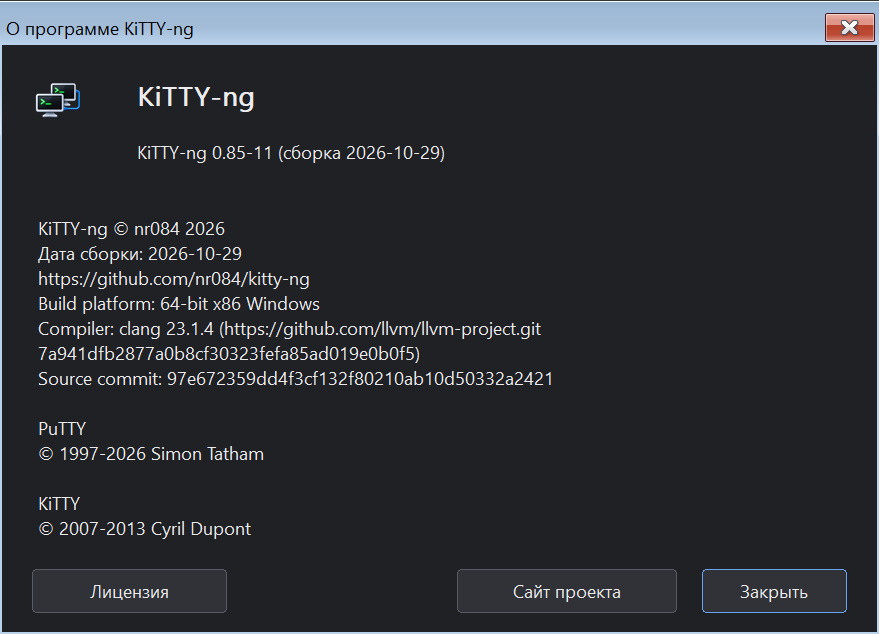
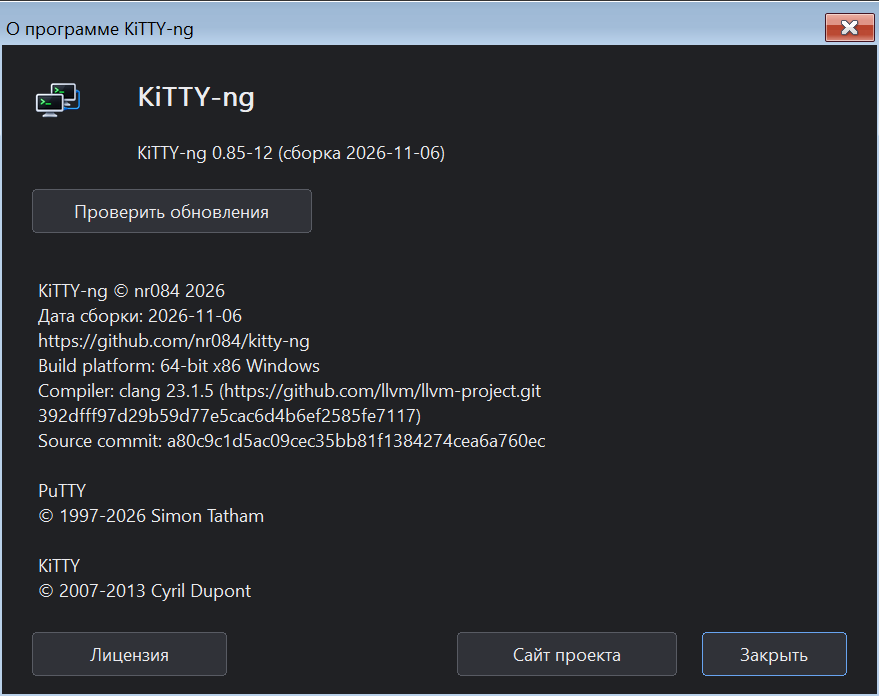
Theme settings controls before painting a replacement panel

diff --git a/windows/kittyng-theme.c b/windows/kittyng-theme.c
@@ -7,8 +7,11 @@
 #include <dwmapi.h>
 
 #define THEME_REFRESH (WM_APP + 162)
+#define THEME_CHILDREN (WM_APP + 163)
 #define THEME_SUBCLASS 0x4b475448
 static const wchar_t theme_attached[] = L"KiTTY-ng Theme Attached";
+static const wchar_t theme_control[] = L"KiTTY-ng Themed Control";
+static const wchar_t theme_children_pending[] = L"KiTTY-ng Theme Children Pending";
 static HBRUSH dark_surface, dark_field;
 static int preference = -1;
 static bool dark;
@@ -182,8 +185,10 @@ static bool draw_menu(HWND hwnd, UINT msg, LPARAM lp)
 }
 
 static LRESULT CALLBACK themed_proc(HWND, UINT, WPARAM, LPARAM, UINT_PTR, DWORD_PTR);
-static BOOL CALLBACK theme_child(HWND child, LPARAM unused)
+static BOOL CALLBACK theme_child(HWND child, LPARAM only_new)
 {
+    if (only_new && GetPropW(child, theme_control)) return TRUE;
+    SetPropW(child, theme_control, (HANDLE)1);
     wchar_t cls[64]; GetClassNameW(child, cls, lenof(cls));
     /* Native themed scrollbars/edit fields; buttons are drawn below in dark mode. */
     SetWindowTheme(child, dark ? L"DarkMode_Explorer" : NULL, NULL);
@@ -200,6 +205,12 @@ static BOOL CALLBACK theme_child(HWND child, LPARAM unused)
     InvalidateRect(child, NULL, TRUE);
     return TRUE;
 }
+void kr_theme_sync_children(HWND hwnd)
+{
+    if (GetPropW(hwnd, theme_attached))
+        EnumChildWindows(hwnd, theme_child, 1);
+}
+
 static void apply_theme(HWND hwnd)
 {
     resolve_theme();
@@ -376,13 +387,23 @@ static LRESULT CALLBACK themed_proc(HWND hwnd, UINT msg, WPARAM wp, LPARAM lp,
                                     UINT_PTR id, DWORD_PTR data)
 {
     if (theme_changed && msg == theme_changed) { preference = -1; apply_theme(hwnd); return 0; }
-    if (msg == WM_NCDESTROY) { RemovePropW(hwnd, theme_attached); restore_menu(hwnd,NULL); RemoveWindowSubclass(hwnd, themed_proc, id); return DefSubclassProc(hwnd,msg,wp,lp); }
+    if (msg == WM_NCDESTROY) { RemovePropW(hwnd, theme_attached); RemovePropW(hwnd, theme_control); RemovePropW(hwnd, theme_children_pending); restore_menu(hwnd,NULL); RemoveWindowSubclass(hwnd, themed_proc, id); return DefSubclassProc(hwnd,msg,wp,lp); }
     if (msg == THEME_REFRESH) { apply_theme(hwnd); return 0; }
     if (msg == WM_SETTINGCHANGE || msg == WM_THEMECHANGED) {
         /* Child SetWindowTheme emits WM_THEMECHANGED: only refresh top-levels. */
         if (!(GetWindowLongPtrW(hwnd,GWL_STYLE) & WS_CHILD)) PostMessageW(hwnd,THEME_REFRESH,0,0);
     }
-    if (msg == WM_PARENTNOTIFY && LOWORD(wp) == WM_CREATE) PostMessageW(hwnd,THEME_REFRESH,0,0);
+    if (msg == THEME_CHILDREN) {
+        RemovePropW(hwnd, theme_children_pending);
+        kr_theme_sync_children(hwnd);
+        return 0;
+    }
+    if (msg == WM_PARENTNOTIFY && LOWORD(wp) == WM_CREATE &&
+        GetPropW(hwnd, theme_attached) && !GetPropW(hwnd, theme_children_pending)) {
+        if (SetPropW(hwnd, theme_children_pending, (HANDLE)1) &&
+            !PostMessageW(hwnd, THEME_CHILDREN, 0, 0))
+            RemovePropW(hwnd, theme_children_pending);
+    }
     if (msg == WM_INITMENUPOPUP) {
         LRESULT result=DefSubclassProc(hwnd,msg,wp,lp);
         theme_menu(hwnd,(HMENU)wp);return result;

diff --git a/windows/dialog.c b/windows/dialog.c
@@ -14,6 +14,7 @@
 #include "kittyng.h"
 #include "kittyng-logui.h"
 #include "kittyng-update.h"
+#include "kittyng-theme.h"
 #define dupprintf kr_printf
 #undef SetWindowText
 #define SetWindowText kr_set_text
@@ -809,11 +810,19 @@ static INT_PTR GenericMainDlgProc(HWND hwnd, UINT msg, WPARAM wParam,
                                 117, 3, 13, pds->current_path);
 
             dlg_refresh(NULL, pds->dp);    /* set up control values */
+            kr_theme_sync_children(hwnd);
 
-            SendMessage (hwnd, WM_SETREDRAW, true, 0);
-            InvalidateRect (hwnd, NULL, true);
+            HWND tree = ((LPNMHDR) lParam)->hwndFrom;
+            RECT panel, tree_bounds;
+            GetClientRect(hwnd, &panel);
+            GetWindowRect(tree, &tree_bounds);
+            MapWindowPoints(NULL, hwnd, (POINT *)&tree_bounds, 2);
+            panel.left = tree_bounds.right;
 
-            SetFocus(((LPNMHDR) lParam)->hwndFrom);     /* ensure focus stays */
+            SendMessage(hwnd, WM_SETREDRAW, true, 0);
+            SetFocus(tree);
+            RedrawWindow(hwnd, &panel, NULL,
+                         RDW_INVALIDATE | RDW_ERASE | RDW_ALLCHILDREN);
         }
         return 0;
 

diff --git a/test/windows_folder_name.py b/test/windows_folder_name.py
@@ -40,9 +40,15 @@ with tempfile.TemporaryDirectory(prefix='kitty-ng-folder-ui-') as directory:
  try:
   dialog=wait(lambda:next((h for h in windows() if pid(h)==p.pid and cls(h)=='PuTTYConfigBox'),None))
   wait(lambda:u.IsWindowVisible(dialog))
-  query_buffer=ctypes.create_unicode_buffer('AUTOBUD');query=ctypes.addressof(query_buffer)
-  combo=wait(lambda:next((h for h in children(dialog) if cls(h).lower()=='combobox' and u.SendMessageW(h,0x14C,-1,query)>=0),None))
-  index=u.SendMessageW(combo,0x14C,-1,query);assert index>=0
+  def folder_entry():
+   for combo in children(dialog):
+    if cls(combo).lower()!='combobox':continue
+    count=ctypes.c_int32(u.SendMessageW(combo,0x146,0,0)).value
+    for index in range(count):
+     buffer=ctypes.create_unicode_buffer(512)
+     u.SendMessageW(combo,0x148,index,ctypes.addressof(buffer))
+     if buffer.value=='AUTOBUD':return combo,index
+  combo,index=wait(folder_entry)
   u.SendMessageW(combo,0x14E,index,0);u.SendMessageW(dialog,0x111,u.GetDlgCtrlID(combo)|(1<<16),combo)
   def selected_profile_row():
    for listing in children(dialog):

diff --git a/windows/kittyng-theme.h b/windows/kittyng-theme.h
@@ -7,6 +7,7 @@ bool kr_theme_dark(void);
 void kr_theme_start(void);
 int kr_theme_messagebox(HWND, const wchar_t *, const wchar_t *, UINT, WORD);
 void kr_theme_attach(HWND hwnd);
+void kr_theme_sync_children(HWND hwnd);
 COLORREF kr_theme_background(void);
 COLORREF kr_theme_foreground(void);
 void kr_add_theme_controls(struct controlbox *, struct controlset *);

diff --git a/docs/releases/0.85-12.md b/docs/releases/0.85-12.md
@@ -2,7 +2,7 @@
 
 В Windows проверка обновлений доступна в окне «О программе». Если на GitHub найден более новый выпуск, синяя ссылка открывает страницу скачивания. Автоматическая проверка выполняется в фоне не чаще раза за 24 часа для учётной записи Windows. Уведомление предлагает открыть страницу выпуска или закрыть его.
 
-При дублировании сеанса окно вкладок обновляет геометрию видимого терминала без лишней перерисовки скрытых вкладок. При открытии подменю и возврате фокуса тема не применяется заново ко всему окну. В свойствах Windows и выборе приложения отображаются названия KiTTYgen, Kageant, Klink, Kscp и Ksftp.
+При дублировании сеанса окно вкладок обновляет геометрию видимого терминала без лишней перерисовки скрытых вкладок. При открытии подменю и возврате фокуса тема не применяется заново ко всему окну. При смене страницы настроек она применяется к новым элементам до их показа. В свойствах Windows и выборе приложения отображаются названия KiTTYgen, Kageant, Klink, Kscp и Ksftp.
 
 В выпуск также вошли ручной перезапуск активного сеанса, исправления меню в трее, отрисовки тёмных подменю и рамки терминала после применения настроек. Поле имени сохранённого сеанса показывает путь относительно выбранной папки.
 
